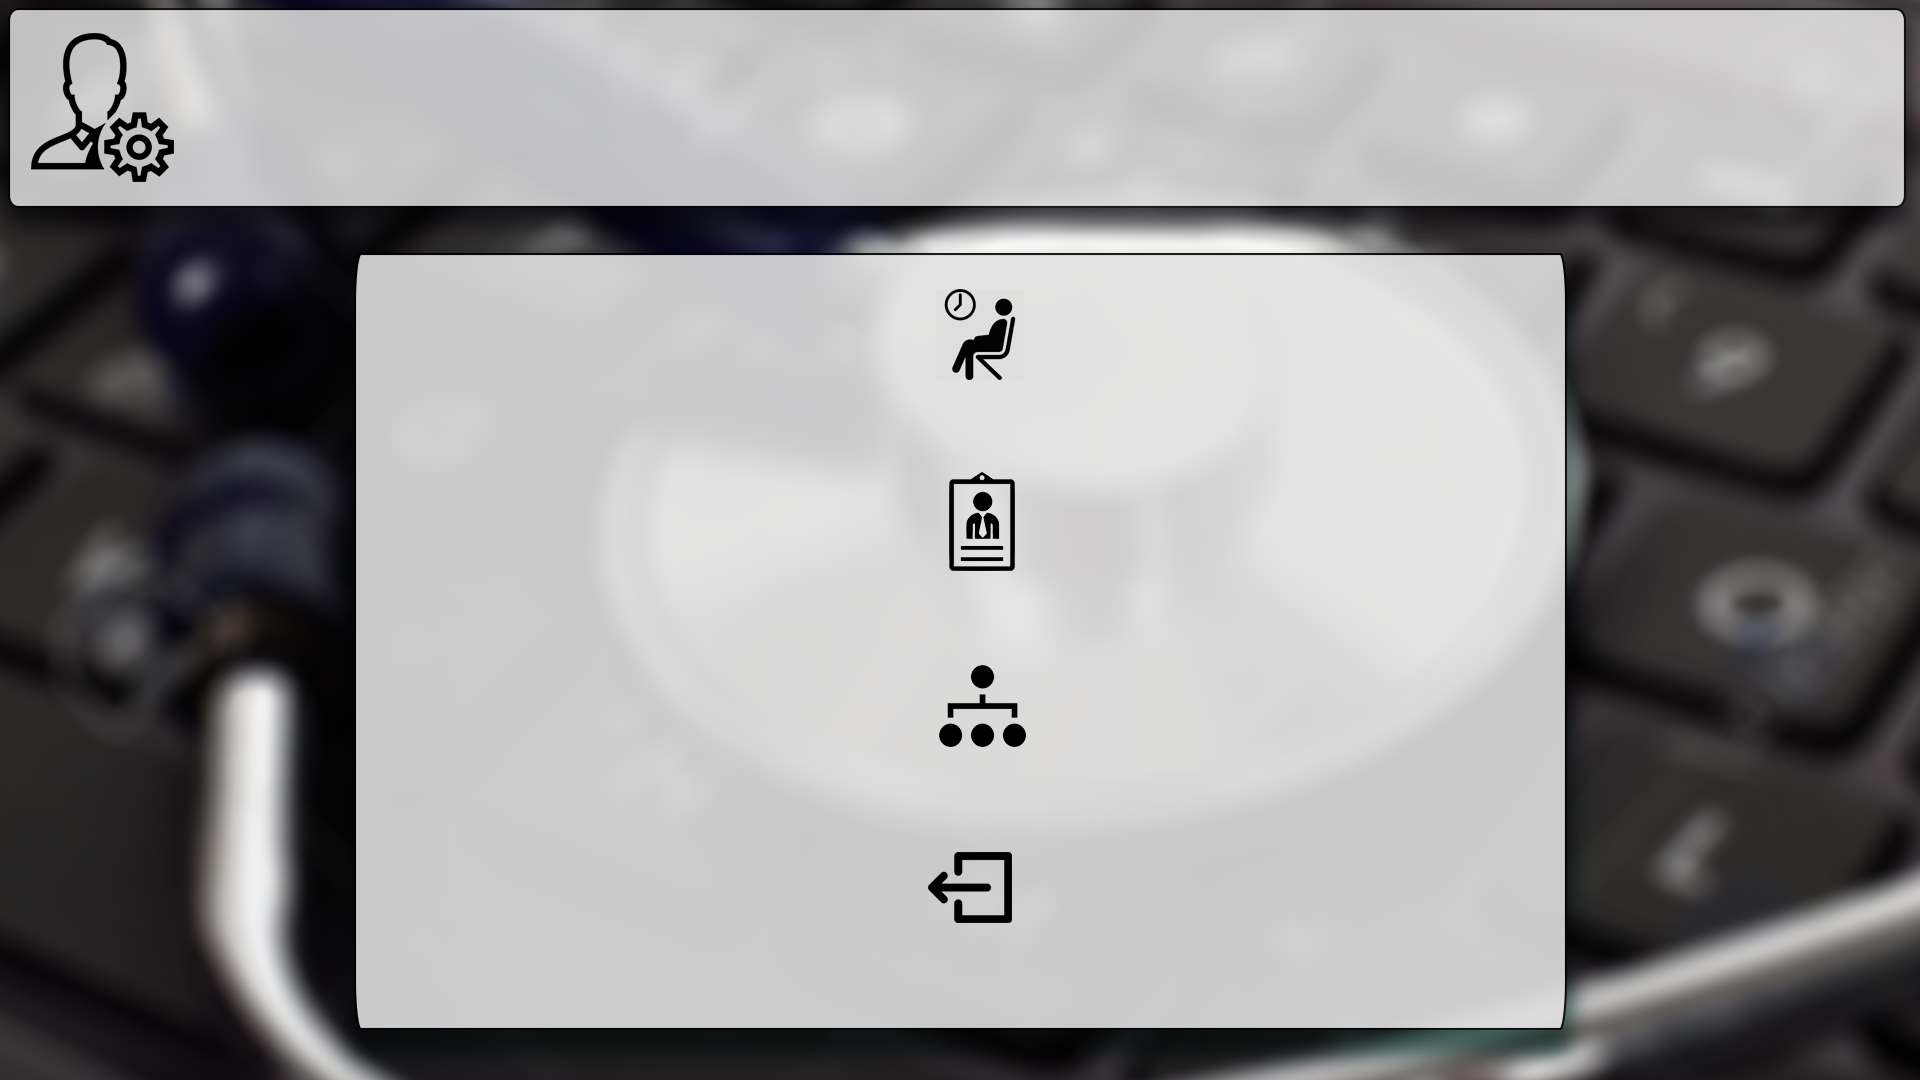
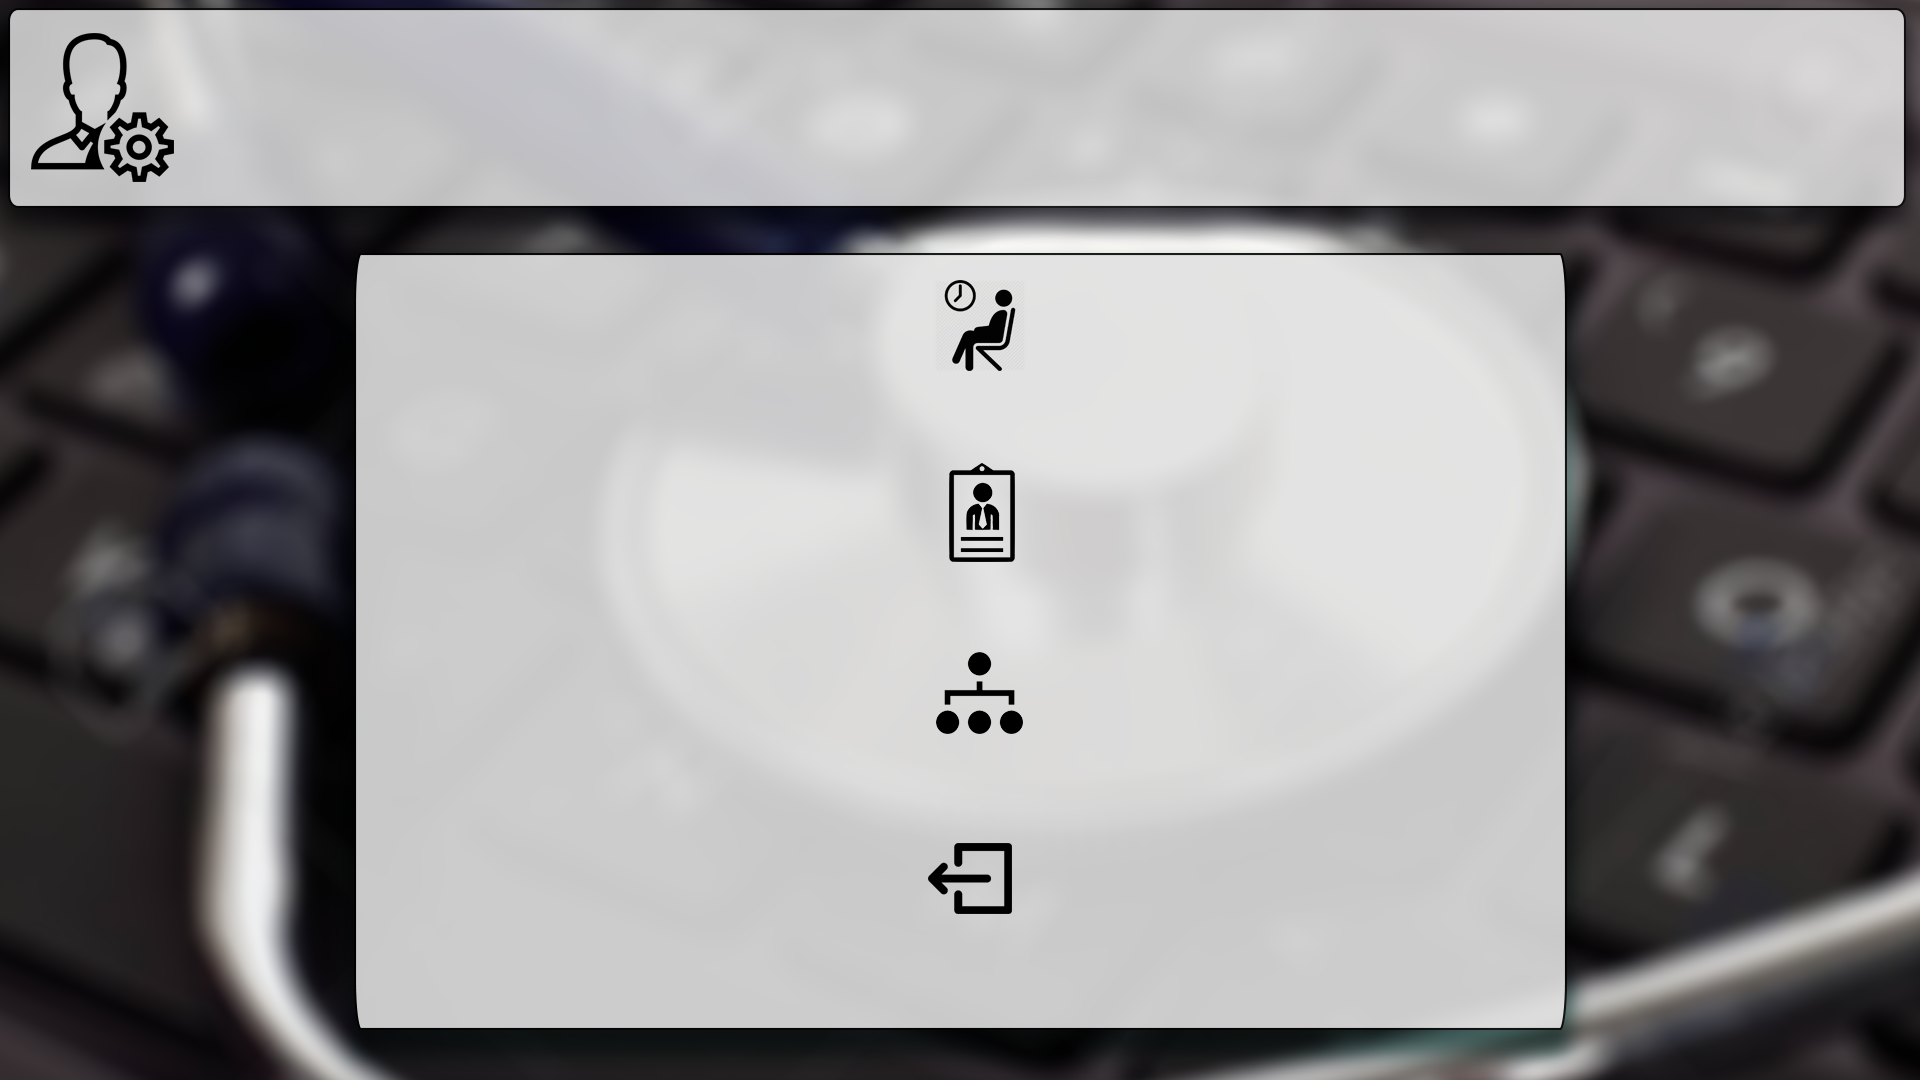
Revert "Fixed button spacing issue on adminMainPanel"
This reverts commit 19f4567d48d6cab8803d5546aa4a516f37bfa7ed.

diff --git a/project/src/gui/AdminMainPanel.java b/project/src/gui/AdminMainPanel.java
@@ -61,7 +61,7 @@ public class AdminMainPanel
 			}
 		});
 		btnManagePatient.setFont(new Font("Arial", Font.BOLD, 16));
-		btnManagePatient.setBounds(785, 394, 400, 59);
+		btnManagePatient.setBounds(785, 380, 400, 59);
 		/*
 		 * MANAGE EMPLOYEE RECORDS BUTTON
 		 */
@@ -74,7 +74,7 @@ public class AdminMainPanel
 			}
 		});
 		btnManageEmployee.setFont(new Font("Arial", Font.BOLD, 16));
-		btnManageEmployee.setBounds(785, 588, 400, 59);
+		btnManageEmployee.setBounds(785, 575, 400, 59);
 		/*
 		 * MANAGE DEPARTMENT BUTTON
 		 */
@@ -87,7 +87,7 @@ public class AdminMainPanel
 			}
 		});
 		btnManageDepart.setFont(new Font("Arial", Font.BOLD, 16));
-		btnManageDepart.setBounds(785, 770, 400, 59);
+		btnManageDepart.setBounds(785, 745, 400, 59);
 		/*
 		 * RETURN BUTTON
 		 */
@@ -100,7 +100,7 @@ public class AdminMainPanel
 			}
 		});
 		btnReturn.setFont(new Font("Arial", Font.BOLD, 16));
-		btnReturn.setBounds(785, 944, 400, 59);
+		btnReturn.setBounds(785, 930, 400, 59);
 		
 		//add all the components to panel
 		adminMain.add(btnManageDepart);

diff --git a/project/src/gui/Test.java b/project/src/gui/Test.java
@@ -1,0 +1,14 @@
+package gui;
+
+import javax.swing.JPanel;
+
+public class Test extends JPanel {
+
+	/**
+	 * Create the panel.
+	 */
+	public Test() {
+
+	}
+
+}
